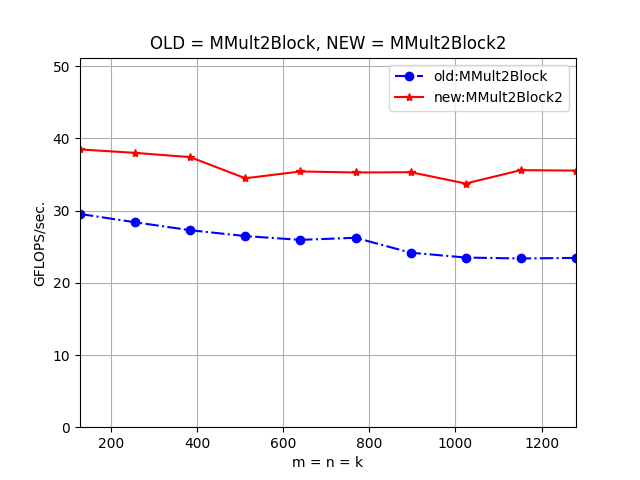
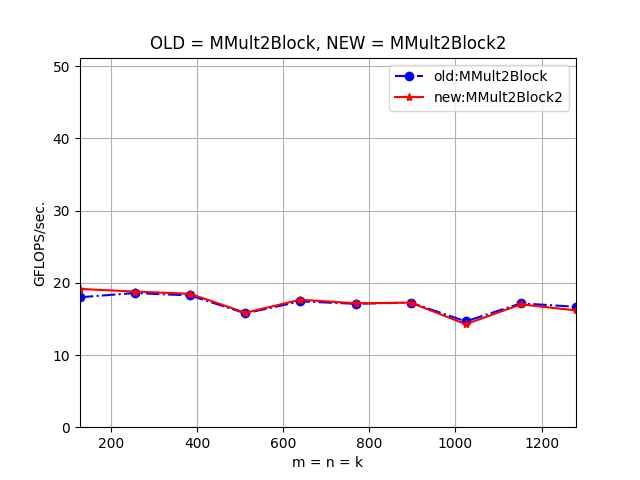
校正数据和图像，应该都没有超过 30 GFLOPS

diff --git a/src/HowToOptimizeGemm/hill/image/output_MMult2Avx0fn3.m b/src/HowToOptimizeGemm/hill/image/output_MMult2Avx0fn3.m
@@ -1,13 +1,13 @@
 version = 'MMult2Avx0fn3';
 MY_MMult = [
-128 2.706003e+01 0.000000e+00 
-256 2.354697e+01 0.000000e+00 
-384 2.370655e+01 0.000000e+00 
-512 9.427057e+00 0.000000e+00 
-640 1.497623e+01 0.000000e+00 
-768 1.110475e+01 0.000000e+00 
-896 1.325868e+01 0.000000e+00 
-1024 5.273794e+00 0.000000e+00 
-1152 6.673930e+00 0.000000e+00 
-1280 3.097043e+00 0.000000e+00 
+128 1.950839e+01 0.000000e+00 
+256 1.787663e+01 0.000000e+00 
+384 1.353972e+01 0.000000e+00 
+512 6.874499e+00 0.000000e+00 
+640 1.015727e+01 0.000000e+00 
+768 6.984417e+00 0.000000e+00 
+896 9.084772e+00 0.000000e+00 
+1024 5.781384e+00 0.000000e+00 
+1152 6.739835e+00 0.000000e+00 
+1280 4.191776e+00 0.000000e+00 
 ];

diff --git a/src/HowToOptimizeGemm/hill/image/output_MMult2Block2.m b/src/HowToOptimizeGemm/hill/image/output_MMult2Block2.m
@@ -1,13 +1,13 @@
 version = 'MMult2Block2';
 MY_MMult = [
-128 3.847985e+01 0.000000e+00 
-256 3.800049e+01 0.000000e+00 
-384 3.741203e+01 0.000000e+00 
-512 3.448554e+01 0.000000e+00 
-640 3.542726e+01 0.000000e+00 
-768 3.528469e+01 0.000000e+00 
-896 3.532241e+01 0.000000e+00 
-1024 3.375750e+01 0.000000e+00 
-1152 3.561036e+01 0.000000e+00 
-1280 3.554495e+01 0.000000e+00 
+128 1.915207e+01 0.000000e+00 
+256 1.878748e+01 0.000000e+00 
+384 1.848013e+01 0.000000e+00 
+512 1.585093e+01 0.000000e+00 
+640 1.766231e+01 0.000000e+00 
+768 1.716762e+01 0.000000e+00 
+896 1.725720e+01 0.000000e+00 
+1024 1.427231e+01 0.000000e+00 
+1152 1.701217e+01 0.000000e+00 
+1280 1.617817e+01 0.000000e+00 
 ];

diff --git a/src/HowToOptimizeGemm/hill/image/output_MMult2Block.m b/src/HowToOptimizeGemm/hill/image/output_MMult2Block.m
@@ -1,13 +1,13 @@
 version = 'MMult2Block';
 MY_MMult = [
-128 2.953735e+01 0.000000e+00 
-256 2.838784e+01 0.000000e+00 
-384 2.728824e+01 0.000000e+00 
-512 2.647815e+01 0.000000e+00 
-640 2.594843e+01 0.000000e+00 
-768 2.624174e+01 0.000000e+00 
-896 2.417771e+01 0.000000e+00 
-1024 2.350033e+01 0.000000e+00 
-1152 2.337258e+01 0.000000e+00 
-1280 2.345204e+01 0.000000e+00 
+128 1.800130e+01 0.000000e+00 
+256 1.858971e+01 0.000000e+00 
+384 1.824492e+01 0.000000e+00 
+512 1.577547e+01 0.000000e+00 
+640 1.742863e+01 0.000000e+00 
+768 1.709603e+01 0.000000e+00 
+896 1.725927e+01 0.000000e+00 
+1024 1.465939e+01 0.000000e+00 
+1152 1.715977e+01 0.000000e+00 
+1280 1.667397e+01 0.000000e+00 
 ];
